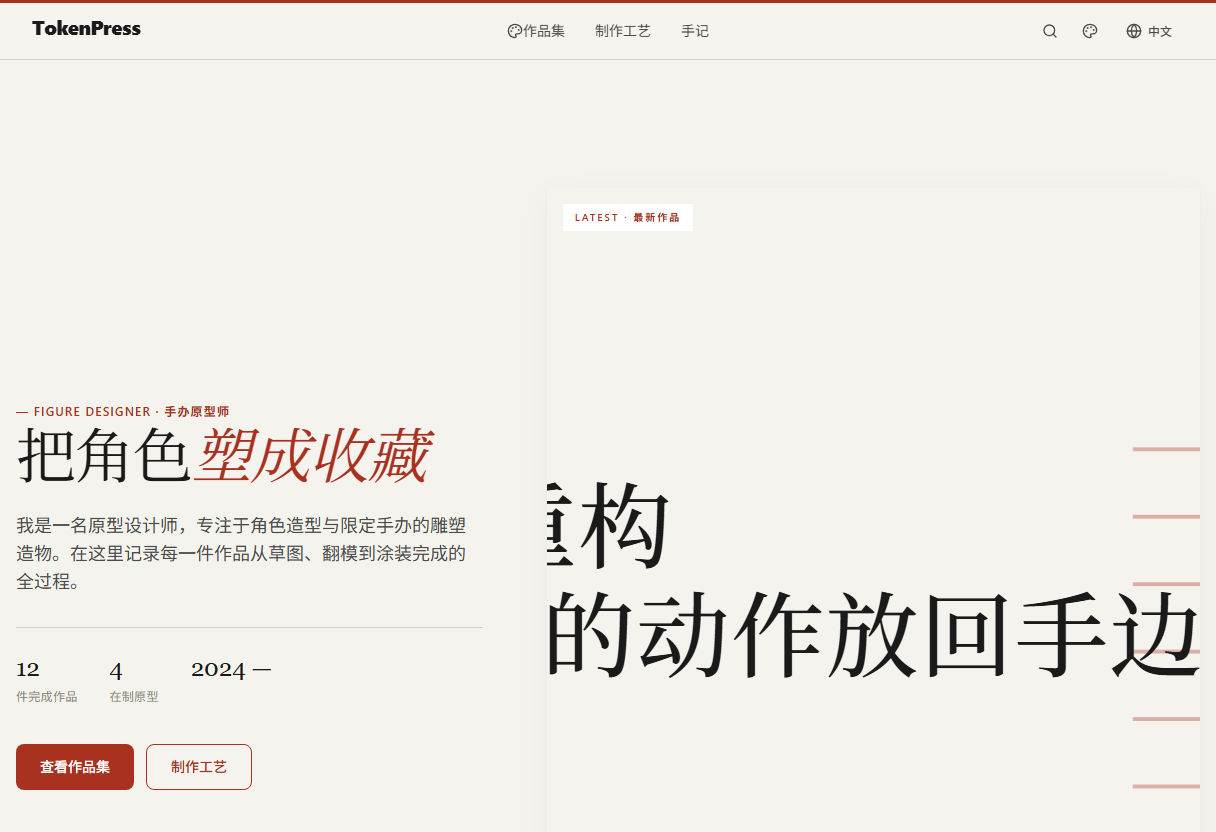
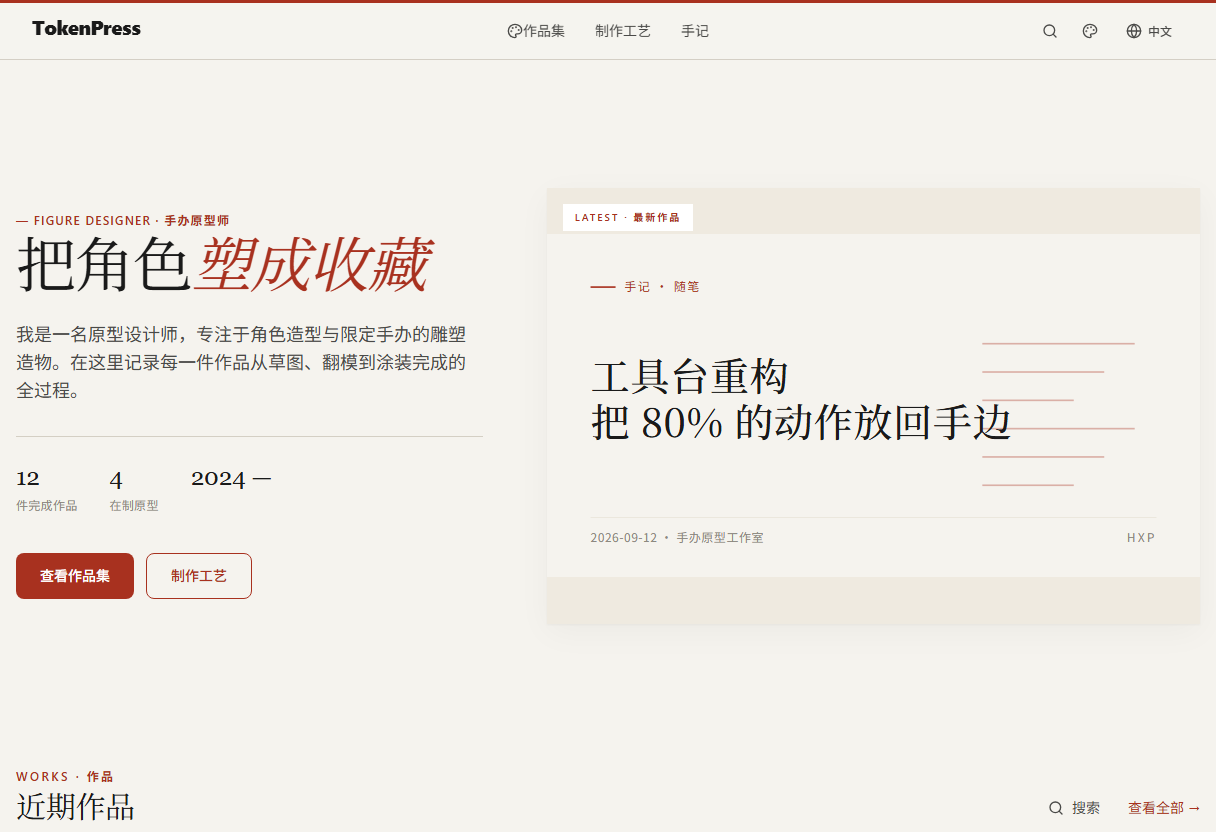
fix(design-pack): 首页 hero 媒体图文字被裁——新增 media.fit 装修字段
现象：首页首屏右侧封面（1200×630 横版 SVG，图上带文章标题大字）只露出
中间几个字。根因是媒体框 aspect 配成 4/5 竖版 + object-cover 硬裁，横版图
两侧被切掉一大块。

- HomeSections 的 CustomBlock media 新增 fit 字段：'cover'（默认，填满裁切，
  保持既有行为）/ 'contain'（完整显示，留白由容器 --bg-tertiary 兜底）
- design 包 hero 媒体改配 aspect:'3/2' + fit:'contain'，封面完整呈现；
  ai-playbook 同步说明字段与取舍
- preview.png 随新首页重新截取

验证（真浏览器计算值）：hero 图 object-fit=contain、框 653×436(3/2)、
图 1200×630 完整显示；下方列表缩略图仍为 cover 不受影响。

diff --git a/apps/web/src/components/HomeSections.tsx b/apps/web/src/components/HomeSections.tsx
@@ -266,6 +266,10 @@ function CustomBlockSection({ block, ctx, heading }: { block: any; ctx?: HomeCtx
       ? (ctx?.recentArticles?.find((a: any) => a.coverImage)?.coverImage as string) || null
       : null)
   const mediaAspect = typeof media?.aspect === 'string' ? media.aspect : '4/5'
+  // fit：'cover'（默认，填满裁切）/ 'contain'（完整显示，留白由容器底色兜）。
+  // 文章封面多为 1200×630 横版，若媒体框配成竖版（如 4/5），cover 会把图上文字
+  // 裁掉——此时应改配 contain。
+  const mediaFit = media?.fit === 'contain' ? 'object-contain' : 'object-cover'
   const splitRatio = typeof split?.ratio === 'string' ? split.ratio : '1/1.4'
   const [l, r] = splitRatio.split('/')
   const splitCols = `${l || '1'}fr ${r || '1.4'}fr`
@@ -328,7 +332,7 @@ function CustomBlockSection({ block, ctx, heading }: { block: any; ctx?: HomeCtx
       style={{ aspectRatio: mediaAspect, background: 'var(--bg-tertiary)', boxShadow: 'var(--shadow-card)' }}
     >
       {/* eslint-disable-next-line @next/next/no-img-element */}
-      <img src={mediaSrc} alt={resolveLabel(media?.alt, locale) || ''} className="w-full h-full object-cover" />
+      <img src={mediaSrc} alt={resolveLabel(media?.alt, locale) || ''} className={`w-full h-full ${mediaFit}`} />
       {media?.badge && (
         <div
           className="absolute top-4 left-4 px-3 py-1.5 text-[10px] font-semibold uppercase"

diff --git a/apps/web/public/styles/design/ai-playbook.md b/apps/web/public/styles/design/ai-playbook.md
@@ -41,7 +41,9 @@
 - 可选字段：`size` / `autoplay` / `interval` / `showCTA` / `ctaButtons[]`
 
 ### 首页内容块 `layouts.homepage.sections`
-1. **CustomBlock**（`size: hero`，`split: {enabled:true, ratio:'1/1.4'}`）—— 左文右图：`eyebrow`（— FIGURE DESIGNER · 手办原型师）、`title` + `titleAccent`（斜体强调）、`intro`、`stats[]`、`media`（`source` / `aspect` / `badge`）、`cta` + `cta2`
+1. **CustomBlock**（`size: hero`，`split: {enabled:true, ratio:'1/1.4'}`）—— 左文右图：`eyebrow`（— FIGURE DESIGNER · 手办原型师）、`title` + `titleAccent`（斜体强调）、`intro`、`stats[]`、`media`（`source:'latest'` / `aspect:'3/2'` / `fit:'contain'` / `badge`）、`cta` + `cta2`
+
+> `media.fit`：默认 `cover`（填满并裁切）。文章封面多为 1200×630 横版，若 `aspect` 配成竖版（如 `4/5`），`cover` 会把封面上的标题文字裁掉 —— design 包因此配 `aspect:'3/2'` + `fit:'contain'`（完整显示，留白由 `--bg-tertiary` 兜底）。
 2. **ArticleList** —— 作品流（`templates.design-gallery` 生效）
 3. **CustomBlock**（About）—— `eyebrow`、`title`、`signature`（斜体署名 `— HXP`）
 
